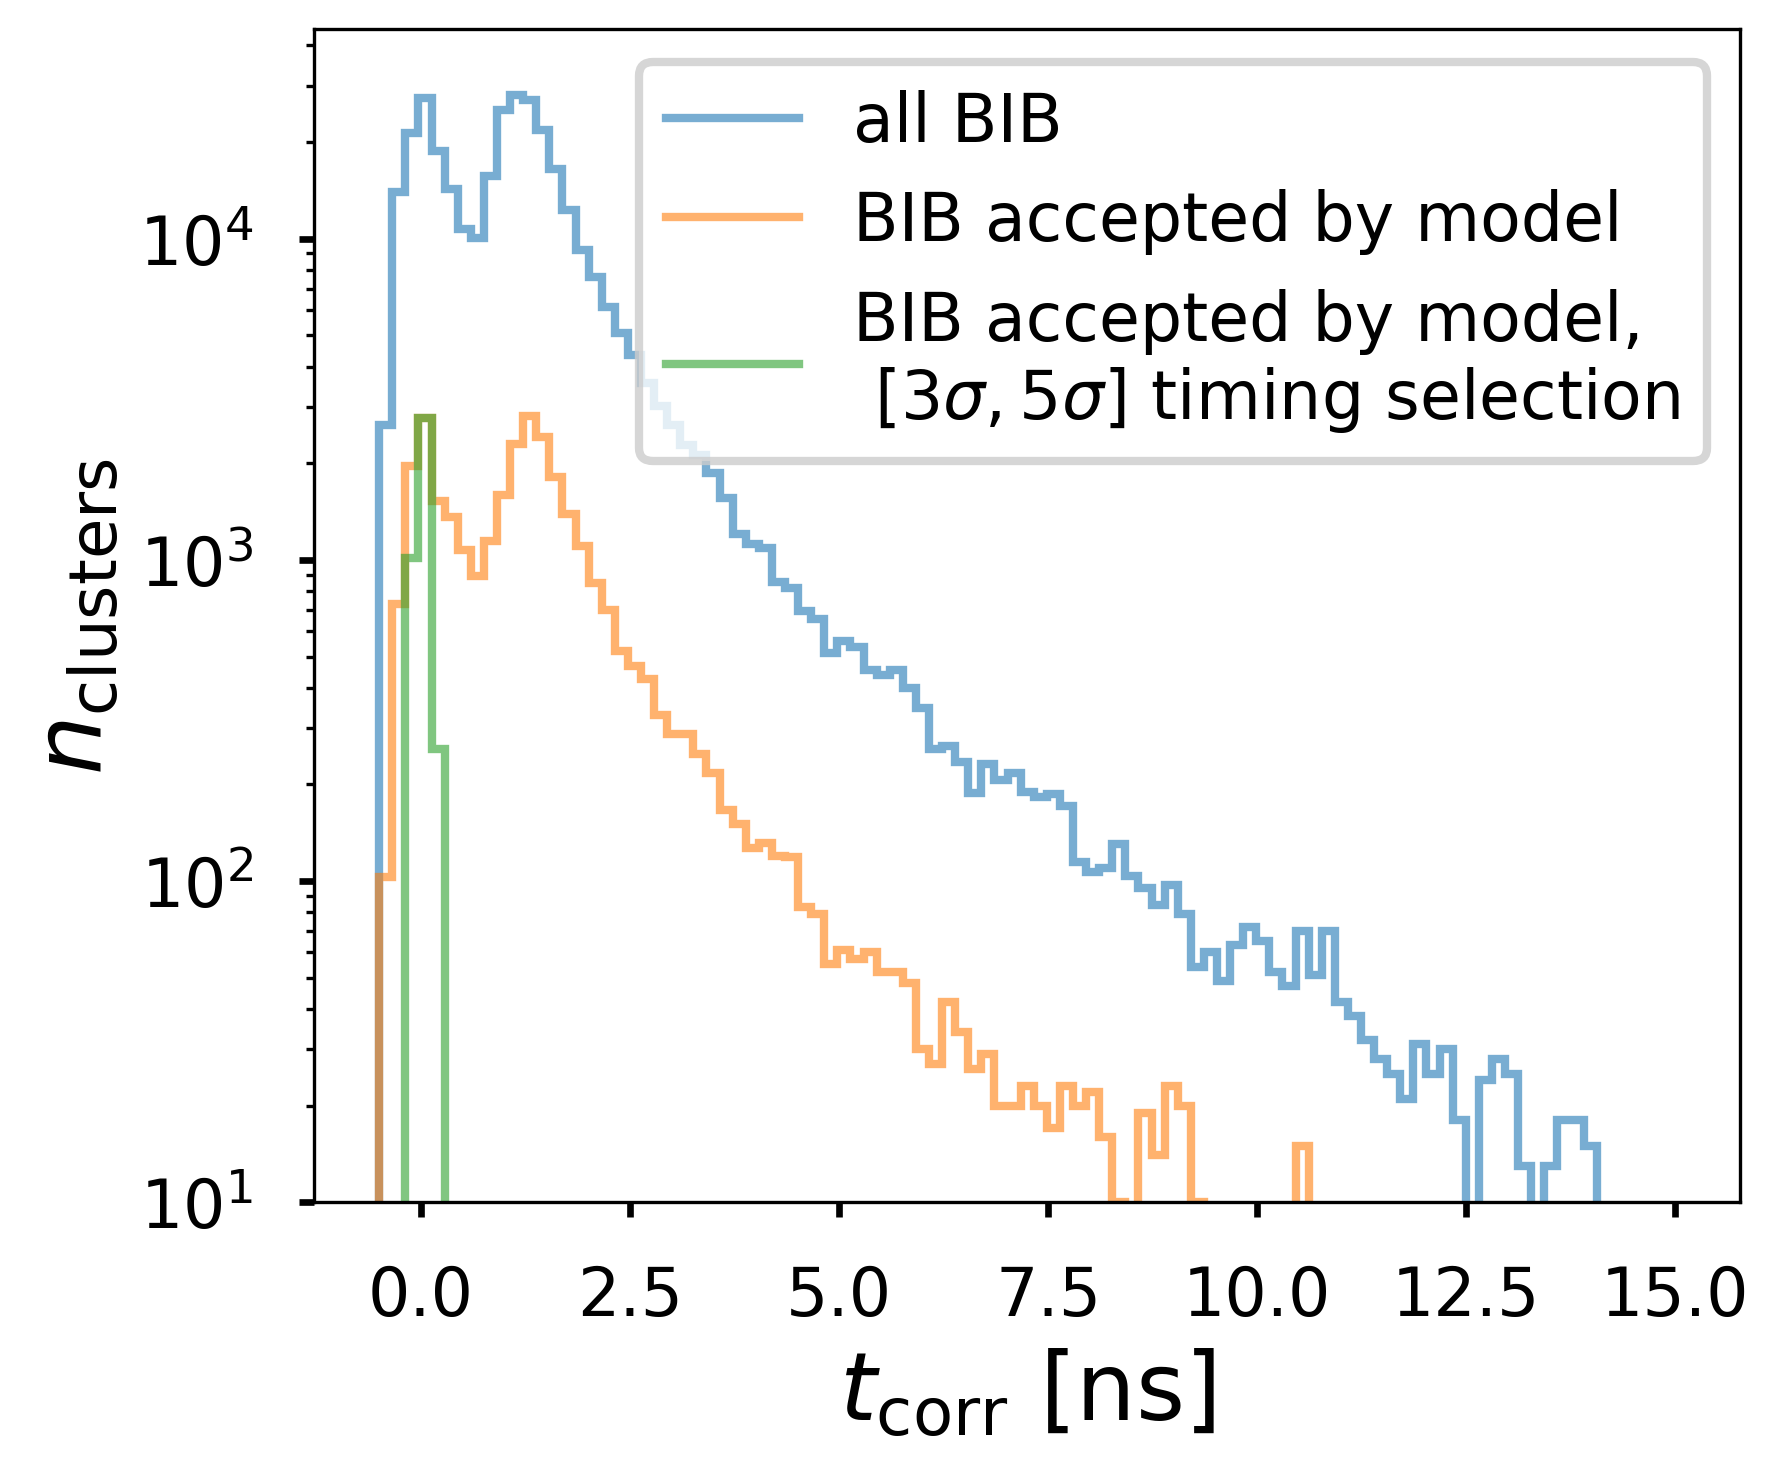
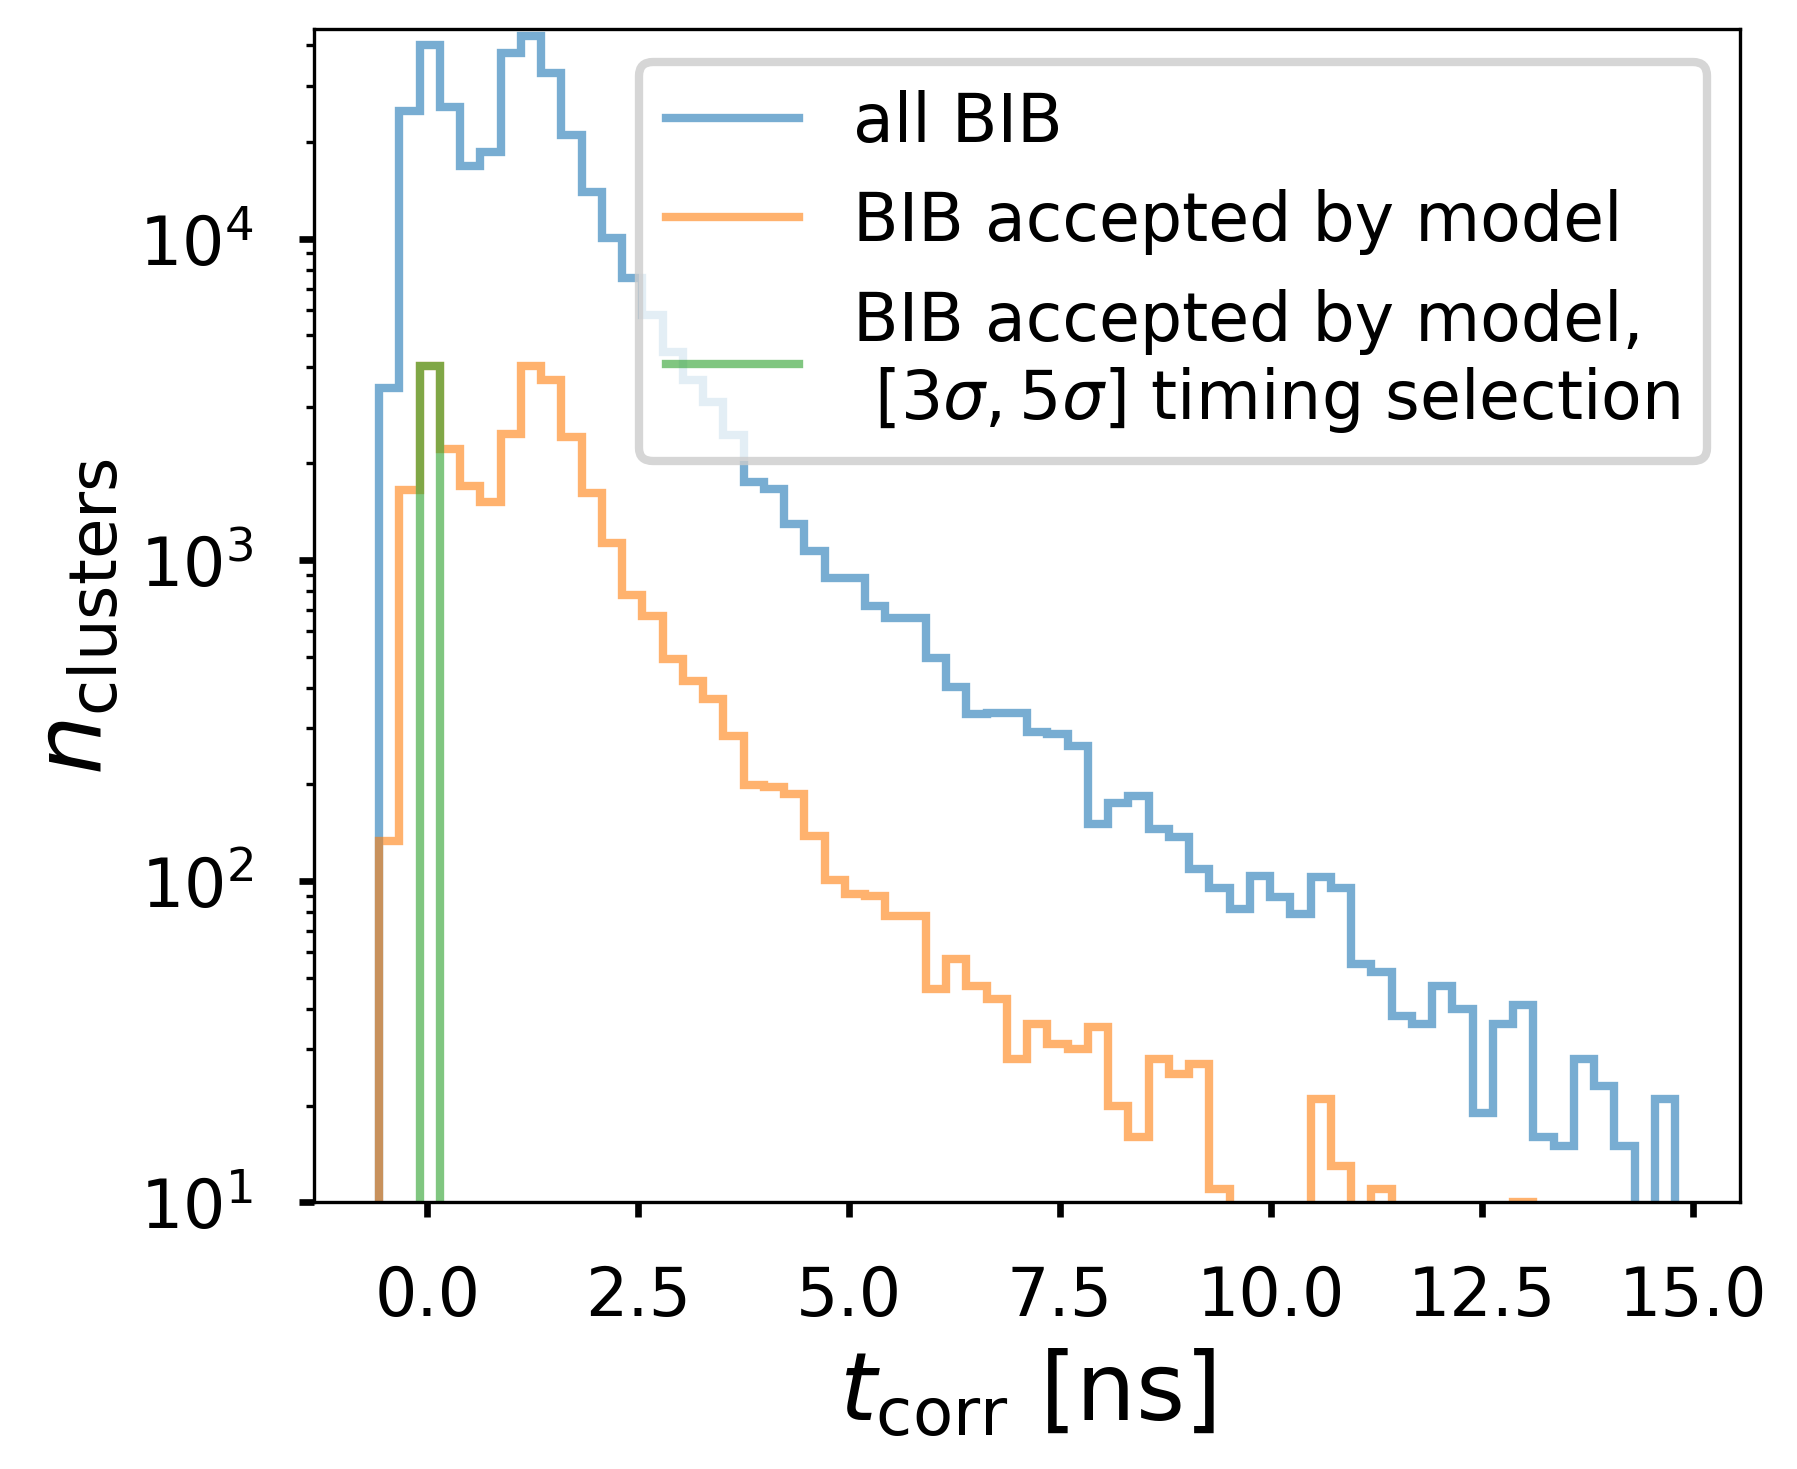
Updated binning of timing distributions to have nominal window 1 bin

diff --git a/paperPlots/predictionPlotter.py b/paperPlots/predictionPlotter.py
@@ -155,7 +155,7 @@ def plotAll1dHists(predVarDF,threshVal,pltDir):
     print(predVarDF.keys())
     if "adjusted_hit_time_30ps_gaussian" in predVarDF.keys():
         histoKarri(predVarDF,threshVal,pltDir,key="adjusted_hit_time_30ps_gaussian",keyLabel="Cluster Hit Arrival Time [ns]",figsize=(5,10),bins=100)
-        histoKarri(predVarDF,threshVal,pltDir,key="adjusted_hit_time_30ps_gaussian",keyLabel=r"$t_{\mathrm{corr}}$ [ns]",figsize=(6,5),bins=100,plotAll=False,plotSig=False,extendSaveTitle="paperVersion",bibTitle="",ylim=[1e1,4.5e4])
+        histoKarri(predVarDF,threshVal,pltDir,key="adjusted_hit_time_30ps_gaussian",keyLabel=r"$t_{\mathrm{corr}}$ [ns]",figsize=(6,5),bins=np.arange(-0.09-.24*2,15,.24),plotAll=False,plotSig=False,extendSaveTitle="paperVersion",bibTitle="",ylim=[1e1,4.5e4])
     histoKarri(predVarDF,threshVal,pltDir,key="z-global",keyLabel=r'$z_{\mathrm{global}}$ [mm]',figsize=(6,5),bins=60,plotAll=False,plotSig = False,extendSaveTitle="paperVersion",bibTitle="",ylim=[1e1,4.5e4],locLegend="upper center")
     histoKarri(predVarDF,threshVal,pltDir,key="z-global",keyLabel=r'$z_{\mathrm{global}}$ [mm]',figsize=(5,10),bins=100)
     histoKarri(predVarDF,threshVal,pltDir,key="pt",keyLabel=r"Transverse Momentum $p_T$ [GeV/c]",figsize=(5,10),bins=100)
